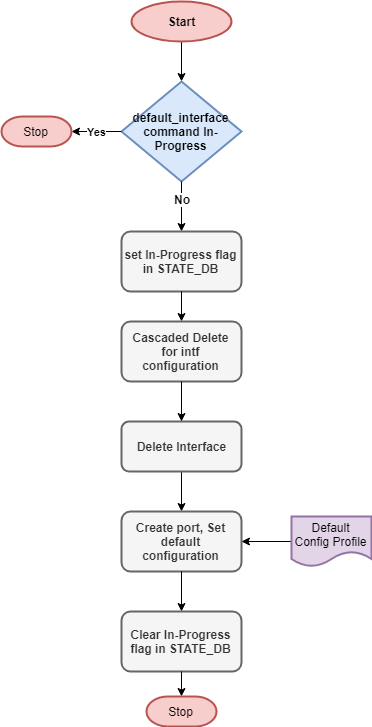
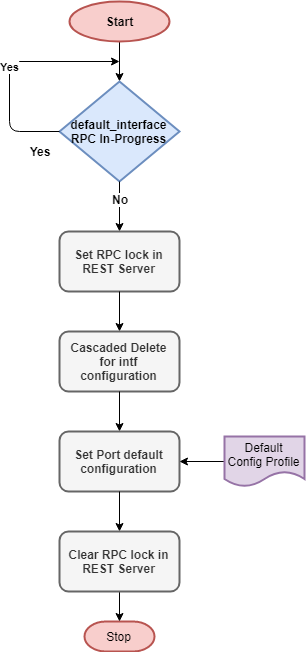
Address review comments and finalize the HLD post implementation.

Changed region(s): [[0.0, 0.0, 0.6765, 1.0], [0.7059, 0.6442, 1.0, 0.7975]]

diff --git a/manageability/SONiC_Default_Configuration.md b/manageability/SONiC_Default_Configuration.md
@@ -82,12 +82,16 @@ The various conditions under which the default configuration is generated are de
 - 1.1.1.5 - All configurations derived from a port configuration must be removed except break out configuration. The port will continue to be in the broken out state when switch port's config is restored to its default configuration. The default speed of the port will be defined by the breakout mode configured on its master port.
 - 1.1.1.6 - When a switch port is being restored to its default configuration, configuration operations on the port are allowed only after the configuration restoration procedure is completed.
 - 1.1.1.7 -  The user should be able to save the configuration state of a selected switch port as a named checkpoint. At a later point in time, such a saved checkpoint can be specified as an input to specify the intended switch port configuration instead of the default configuration.
+- 1.1.1.8 - The user should be able to restore a PortChannel interface to its default configuration.
+- 1.1.1.9 - The user should be able to restore a VLAN interface to its default configuration.
+- 1.1.1.10 - The user should be able to restore a loopback interface to its default configuration.
 
 ### 1.1.2 Configuration and Management Requirements
 
 - 1.1.2.0 - The user must be able to view and choose between one or more available default configuration profiles.
 - 1.1.2.1 - The available configuration profiles are identified using a unique name string.
 - 1.1.2.2 - When the user changes the default configuration profile setting, the switch configuration is restored to the default configuration defined by the newly chosen default configuration profile.
+- 1.1.2.3 - The user should be able to select a range of interfaces and restore them to default configuration using a single CLI command.
 
 ### 1.1.3 Scalability Requirements
 N/A
@@ -109,9 +113,13 @@ N/A
 | 1.1.1.5        | All configurations derived from a port configuration must be removed except break out configuration. The port will continue to be in the broken out state when switch port's config is restored to its default configuration. The default speed of the port will be defined by the breakout mode configured on its master port. | 3.1               |
 | 1.1.1.6        | When a switch port is being restored to its default configuration, configuration operations on the port are allowed only after the configuration restoration procedure is completed. | 3.1               |
 | 1.1.1.7        | The user should be able to save the configuration state of a selected switch port as a named checkpoint. At a later point in time, such a saved checkpoint can be specified as an input to specify the intended switch port configuration instead of the default configuration. | Future            |
+| 1.1.1.8        | The user should be able to restore a PortChannel interface to its default configuration. | Future            |
+| 1.1.1.9        | The user should be able to restore a VLAN interface to its default configuration. | Future            |
+| 1.1.1.10       | The user should be able to restore a loopback interface to its default configuration. | Future            |
 | 1.1.2.0        | The user must be able to view and choose between one or more available default configuration profiles. | 2.0               |
 | 1.1.2.1        | The available configuration profiles are identified using a unique name string. | 2.0               |
 | 1.1.2.2        | When the user changes the default configuration profile setting, the switch configuration is restored to the default configuration defined by the newly chosen default configuration profile. | 2.0               |
+| 1.1.2.3        | The user should be able to select a range of interfaces and restore them to default configuration using a single CLI command. | 3.1               |
 
 
 
@@ -211,10 +219,16 @@ root@sonic:/home/admin# tree --charset=ascii /usr/share/broadcom_sonic
 |-- config_profiles
 |   |-- active
 |   |-- l2
+|   |   |-- data
+|   |   |   |-- default_config_db.json
+|   |   |   `-- features.json
 |   |   |-- description
 |   |   `-- templates
 |   |       `-- config_db.json.j2
 |   `-- l3
+|       |-- data
+|       |   |-- default_config_db.json
+|       |   `-- features.json
 |       |-- description
 |       `-- templates
 |           `-- config_db.json.j2
@@ -224,6 +238,7 @@ root@sonic:/home/admin# tree --charset=ascii /usr/share/broadcom_sonic
     |   `-- 08-config-profile-migrate
     |-- config-profiles
     `-- factory-default-hooks
+        |-- 09-features-json
         |-- 09-swap-bcm-config
         `-- 10-render-config-db-json
 ```
@@ -309,7 +324,10 @@ The following Switch configuration *(l2/templates/config_db.json.j2)* is rendere
 
 - Ports
 
-  - Administrative mode: Up
+  - STP feature is available (Enterprise package)
+    - Administrative mode: Up
+  - STP feature is not available (Cloud package)
+    - Administrative mode: Down
   - Speed
   - MTU: 9100
   - Spanning tree: Enabled
@@ -319,6 +337,10 @@ The following Switch configuration *(l2/templates/config_db.json.j2)* is rendere
   - Port Fast Mode: Enabled
   - Uplink Fast Mode: Disabled
 
+- COREDUMP
+
+  - Enabled
+  
 - KDUMP
 
   - Enabled
@@ -365,6 +387,10 @@ The following Switch configuration *(l3/templates/config_db.json.j2)* is rendere
   - Speed
   - MTU: 9100
 
+- COREDUMP
+
+  - Enabled
+  
 - KDUMP
 
   - Enabled
@@ -411,7 +437,7 @@ The switch administrators, as part of provisioning the network, configure variou
 
   
 
-To perform the *default interface* configuration operation, the user has to issue the corresponding KLISH command.
+To perform the *default interface* configuration operation, the user has to issue the appropriate KLISH command.
 
 ```
 admin@sonic:~$ sonic-cli
@@ -421,7 +447,7 @@ sonic(config)# default interface Ethernet 8
 
 
 
-The port configuration restore operation is performed as an RPC action by the REST server. The RPC action is initiated by the KLISH CLI command and uses interface name as input. The *default interface* KLISH CLI command is blocked until the RPC operation is completed and feedback is provided to the user. The *default interface* RPC command can also be issued by a REST client. No configurations are allowed on the port, including a parallel instance of the *default interface* command. while a port is going through the port configuration restore operation. A STATE_DB table entry is used to mark the port to be in a busy state. The CVL validation layer in the management framework will make use of this busy state to reject any configuration requests on the interface. The busy status is also used as a gating check to initiate the RPC command and this allows the REST server to not allow more than one parallel instance of *default interface* command on the same port. As the *default interface* command is designed to be a synchronous operation, there is no status command available to the user to view the operation's progress.
+The port configuration restore operation is performed as an RPC action by the REST server. The RPC action is initiated by the KLISH CLI command and uses interface name as input. The *default interface* KLISH CLI command is blocked until the RPC operation is completed and feedback is provided to the user. The *default interface* RPC command can also be issued by a REST client. No configurations are allowed on the port, including a parallel instance of the *default interface* command. While a port is going through the port configuration restore operation, the REST server blocks access. The CVL validation layer in the management framework watches for any parallel configuration requests. If any parallel DB access happens, the *default interface* RPC action fails and no configuration changes are committed. As the *default interface* command is designed to be a synchronous operation, there is no status command available to the user to view the operation's progress.
 
 
 
@@ -431,9 +457,9 @@ The first step of port configuration restore operation is to identify all the co
 
 
 
-#### Default Port Configuration Template
+#### Default Port Configuration
 
-After the dependent configuration delete operations, the next step is to configure the port to the default configuration state. A port's default configuration profile is represented in the form of a jinja2 (j2) template file. It is accessible to the REST server in the path */usr/share/broadcom_sonic/config_profiles/active-profile-name/templates/port_config.j2*. When the *default interface* command is executed, the port configuration restore operation creates a port specific configuration file using this template file. The contents of the generated file are used by the REST server to configure the port to its default configuration state.
+After the dependent configuration delete operations, the next step is to configure the port to the default configuration state. A port's default configuration profile is read from the default_config_db.json file. It is accessible to the REST server in the path */usr/share/broadcom_sonic/config_profiles/active-profile-name/data/default_config_db.json*. When the *default interface* command is executed, the port configuration restore operation uses the port specific configuration read to configure the port to its default configuration state.
 
 
 
@@ -453,24 +479,32 @@ value: l3
 
 ### 3.2.2 STATE DB
 
-A new table **PORT_CONFIG_STATUS** is introduced to mark a port state as busy. This will be used to block port related configuration from the management framework.
+A new table **DEFAULT_CONFIG_PROFILES** is introduced to list all supported default configuration profiles. It also indicates which profile is currently being used to generate factory default configuration.
 
 ```
-table: PORT_CONFIG_STATUS
-key: PORT_CONFIG_STATUS|Ethernet0
-field: state
-value: busy
+table: DEFAULT_CONFIG_PROFILES
+key: DEFAULT_CONFIG_PROFILES|l3
+field: l3
+value: None
+field: "description"
+value: "Layer 3 Router Configuration"
+field: "active"
+value: "true"
 
-table: PORT_CONFIG_STATUS
-key: PORT_CONFIG_STATUS|Ethernet0
-field: state
-value: ok
+table: DEFAULT_CONFIG_PROFILES
+key: DEFAULT_CONFIG_PROFILES|l2
+field: l2
+value: None
+field: "description"
+value: "Layer 2 Switch Configuration"
+field: "active"
+value: "false"
 ```
 
 ## 3.3 Switch State Service Design
 ### 3.3.1 Orchestration Agent
 
-A few changes are expected to be made to configure the **PORT_CONFIG_STATUS** table entries while executing the *default interface* command. More details will be added to this section after implementing the feature.
+N/A
 
 ### 3.3.2 Other Process 
 N/A
@@ -485,37 +519,33 @@ N/A
 ### 3.6.1 Data Models
 ```
 module: sonic-config-mgmt
-  +--ro factory-default-profiles
-     +--ro factory-default-profile* [name]
-        +--ro name       -> ../state/name
-        +--ro state        
-           +--ro name         string
-           +--ro description  string
-           +--ro active       boolean
+  +--rw sonic-default-config-profiles
+     +--rw DEFAULT_CONFIG_PROFILES
+        +--rw DEFAULT_CONFIG_PROFILES_LIST* [profile-name]
+           +--rw profile-name    string
+           +--rw description?    string
+           +--rw active?         boolean
 
   rpcs:
     +---x write-erase
+    |  +---w input
+    |  |  +---w subcmd?   string
+    |  +--ro output
+    |     +--ro status?          int32
+    |     +--ro status-detail?   string
+    +---x factory-default-profile
+    |  +---w input
+    |  |  +---w profile-name?   string
+    |  +--ro output
+    |     +--ro status?          int32
+    |     +--ro status-detail?   string
+    +---x default-port-config
        +---w input
-       |  +---w subcmd?   string
+       |  +---w ifname?   -> /prt:sonic-port/PORT/PORT_LIST/ifname
        +--ro output
           +--ro status?          int32
           +--ro status-detail?   string
 ```
-
-
-
-```
-module: openconfig-interfaces-ext
-
-  rpcs:
-    +---x default
-       +---w input
-       |  +---w interface   string
-       +--ro output
-          +--ro status?          int32
-          +--ro status-detail?   string
-```
-
 
 
 ### 3.6.2 CLI
@@ -559,8 +589,7 @@ write erase
 **Example**
 
 ```
-sonic# configure terminal
-sonic(config)# write erase 
+sonic# write erase 
 ```
 
 
@@ -580,8 +609,7 @@ write erase boot
 **Example**
 
 ```
-sonic# configure terminal
-sonic(config)# write erase boot
+sonic# write erase boot
 Existing switch configuration files will be removed, continue? [y/N]:
 ```
 
@@ -602,8 +630,7 @@ write erase install
 **Example**
 
 ```
-sonic# configure terminal
-sonic(config)# write erase install
+sonic# write erase install
 All SONiC switch content will be restored to default values, continue? [y/N]:
 ```
 
@@ -624,8 +651,7 @@ no write erase
 **Example**
 
 ```
-sonic# configure terminal
-sonic(config)# no write erase
+sonic# no write erase
 Switch configuration erase operation will be cancelled, continue? [y/N]:
 ```
 
@@ -635,8 +661,7 @@ Switch configuration erase operation will be cancelled, continue? [y/N]:
 
 **Description**
 
-The *default interface* command is used to delete all the all the user configuration of a specified interface(s) and restore it to its default state.
-
+The *default interface* command is used to delete all the all the user configuration of a specified interface and restore it to its default state.
 
 **Usage**
 
@@ -649,6 +674,27 @@ default interface < if >
 ```
 sonic# configure terminal
 sonic(config)# default interface Ethernet 0
+```
+
+
+
+#### default interface range
+
+**Description**
+
+The *default interface* command is used to delete all the all the user configuration of a specified range of interface(s) and restore it to its default state.
+
+**Usage**
+
+```
+default interface range < if-range >
+```
+
+**Example**
+
+```
+sonic# configure terminal
+sonic(config)# default interface range Ethernet 0-16
 ```
 
 
@@ -701,7 +747,23 @@ N/A
 
 ### 3.6.3 REST API Support
 
-This section will be updated with the supported REST API after implementing the YANG data model.
+The following REST URIs are supported to configure factory default configuration profile.
+
+```
+PATCH "<REST-SERVER:PORT>/restconf/operations/sonic-config-mgmt:factory-default-profile" -d "{  \"sonic-config-mgmt:input\": {\"profile-name\": \"l2\"}}"
+
+PATCH "<REST-SERVER:PORT>/restconf/operations/sonic-config-mgmt:factory-default-profile" -d "{  \"sonic-config-mgmt:input\": {\"profile-name\": \"l3\"}}"
+
+GET "<REST-SERVER:PORT>/restconf/data/sonic-config-mgmt:sonic-default-config-profiles/DEFAULT_CONFIG_PROFILES"
+```
+
+
+
+The following REST URI is used to restore a port to its default configuration
+
+```
+PATCH "<REST-SERVER:PORT>/restconf/operations/sonic-config-mgmt:default-port-config" -d "{  \"sonic-config-mgmt:input\": {\"ifname\": \"Ethernet8\"}}"
+```
 
 
 
@@ -742,7 +804,7 @@ N/A
 | 10   | Issue write erase/write erase boot/write erase install commands. Issue warm-reboot command. The warm-reboot command should fail indicating that there is a pending configuration erase action. |
 | 11   | Configure factory default configuration profile as l2. Issue "default interface" command and verify that the interface is restored to L2 default configuration. |
 | 12   | Configure factory default configuration profile as l3. Issue "default interface" command and verify that the interface is restored to L3 default configuration. |
-| 13   | Issue two "default interface Ethernet 0" commands in two sonic-cli sessions. Only one of them should succeed and the other one fails. |
-| 14   | Issue "default interface Ethernet 0" command and while it is in progress,and add port Ethernet0 to a port channel. The port channel member add command should fail. |
+| 13   | Issue two "default interface Ethernet 0" commands in two sonic-cli sessions. Only one of them should succeed and the other one should wait for the first one to finish before continuing. |
+| 14   | Issue "default interface Ethernet 0" command and while it is in progress,and add port Ethernet0 to a port channel. The "default interface Ethernet0" command should fail to commit. |
 | 15   | Issue "default interface Ethernet 0" command and after the command exits, issue a command to add the port Ethernet0 to a VLAN. The VLAN add command should succeed indicating that the port Ethernet0 is ready to accept new configurations. |
-| 16   | Verify that the STATE_DB table PORT_CONFIG_STATUS indicates busy state when the "default interface" command is in progress. It should be set to ok, once the "default interface" command exits . |
+| 16   | Issue "default interface Ethernet0" command when Ethernet0 is a broken out port. Also issue "default interface Ethernet1" on a port which is created as part of a breakout configuration. |
